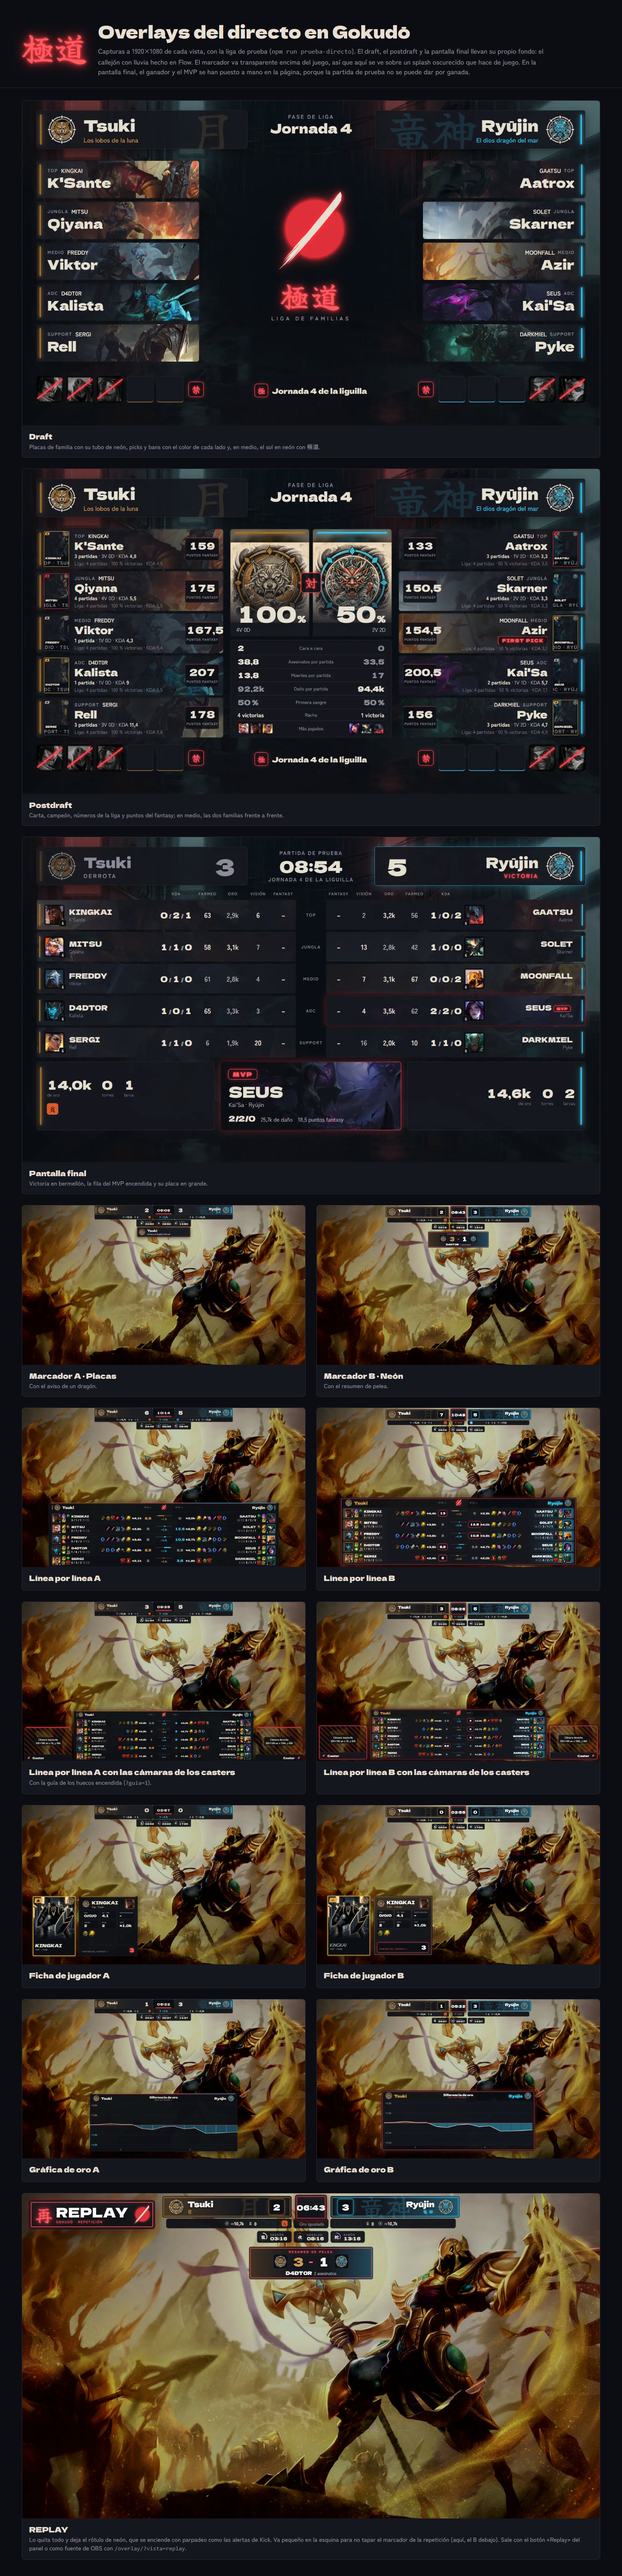
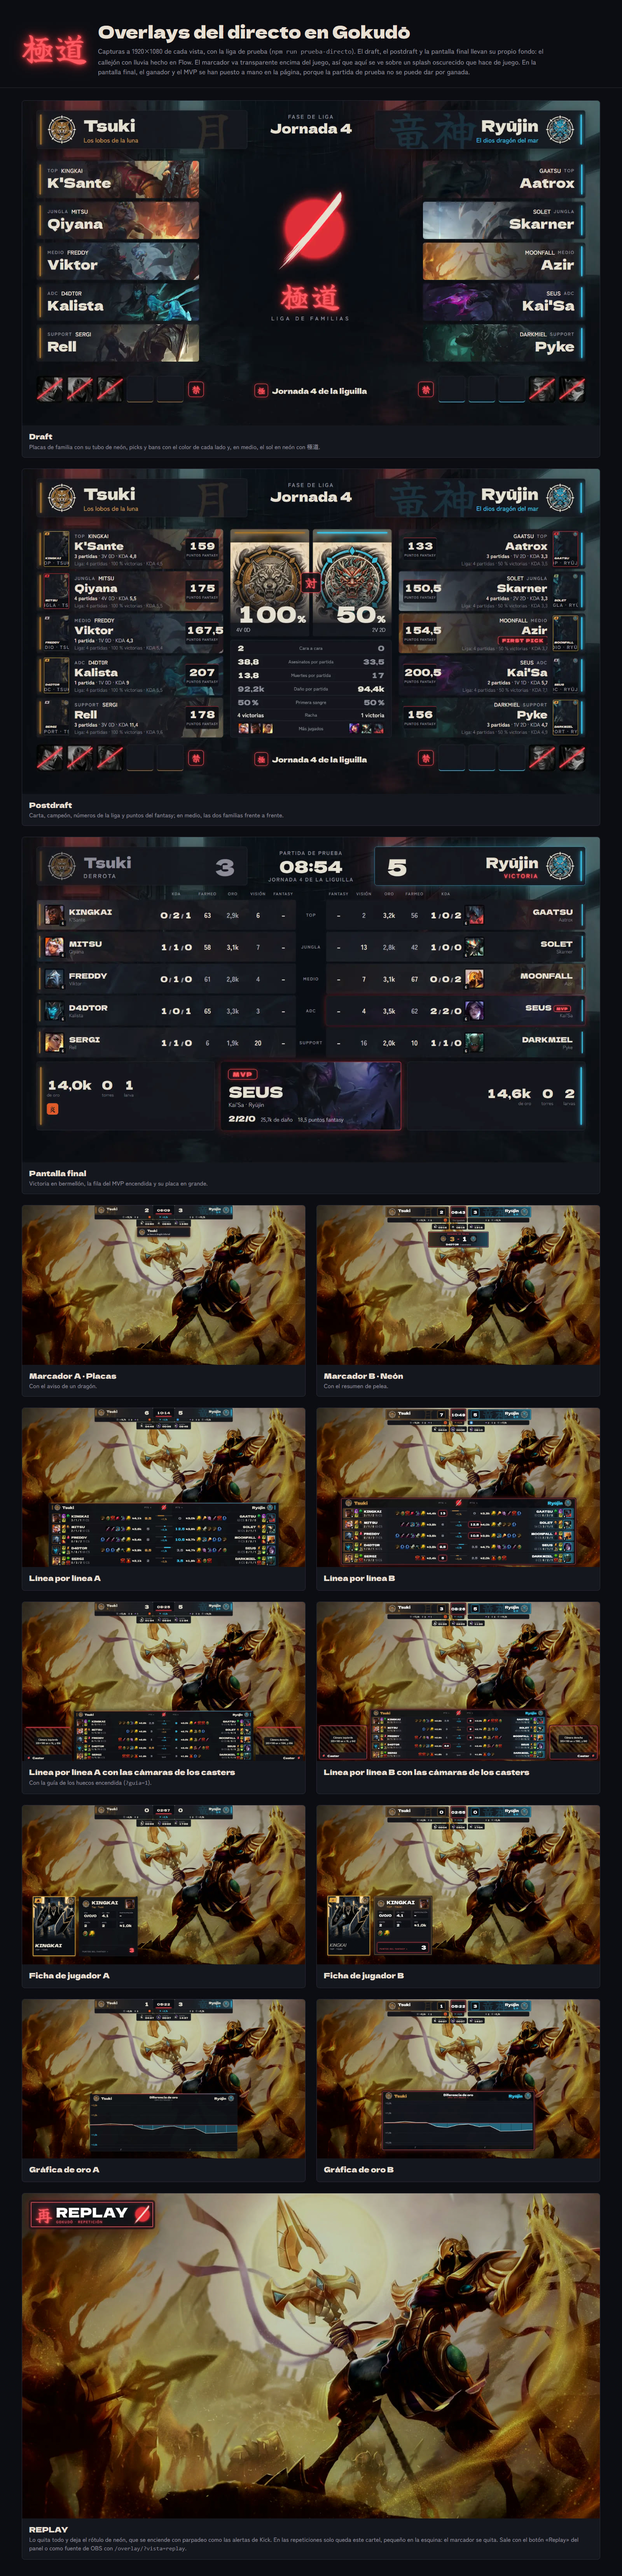
REPLAY: en las repeticiones solo queda el cartel, que se queda compacto
Pacopepe: en las repeticiones el marcador se quita y el cartel compacto «está bien de grande».
Muestra 14-replay sin marcador debajo.

Changed region(s): [[0.25, 0.8436, 0.75, 0.9061]]

diff --git a/public/overlay/replay.css b/public/overlay/replay.css
@@ -11,8 +11,9 @@ body[data-vista="replay"] #replay { opacity: 1; visibility: visible; transition:
 body[data-vista="replay"] #lienzo { opacity: 0; visibility: hidden; transition: opacity .5s ease, visibility 0s .5s; }
 body[data-vista="replay"] .codigo-directo { display: none; }
 
-/* Compacto y pegado a la esquina: la repetición lleva el marcador de la partida arriba en el centro, y el cartel no puede
-   tapar el nombre de la familia azul, que empieza hacia x 465 (estilo B) o 491 (A). Mide unos 410 px de ancho (acaba hacia x 435) */
+/* En las repeticiones solo queda este cartel: el marcador de la partida se quita (Pacopepe, 08/11). Va compacto y pegado
+   a la esquina, porque así «está bien de grande»: mide unos 416×93 px y acaba hacia x 440. Si algún día conviviera con
+   el marcador, tampoco lo taparía (la placa azul empieza hacia x 465 con el estilo B y x 491 con el A) */
 .replay-cartel { position: absolute; left: 24px; top: 24px; display: grid; grid-template-columns: auto auto auto; align-items: center; gap: 12px;
   padding: 12px 14px 12px 18px; border-radius: 8px; border: 1px solid var(--sumi-linea);
   background: linear-gradient(180deg, rgba(21, 22, 31, .96), rgba(12, 13, 19, .96));

diff --git a/docs/capturas/gokudo/muestras.html b/docs/capturas/gokudo/muestras.html
@@ -44,7 +44,7 @@
   <figure><img src="11-ficha-b.webp" alt=""><figcaption><b>Ficha de jugador B</b></figcaption></figure>
   <figure><img src="12-grafica-a.webp" alt=""><figcaption><b>Gráfica de oro A</b></figcaption></figure>
   <figure><img src="13-grafica-b.webp" alt=""><figcaption><b>Gráfica de oro B</b></figcaption></figure>
-  <figure class="ancha"><img src="14-replay.webp" alt=""><figcaption><b>REPLAY</b>Lo quita todo y deja el rótulo de neón, que se enciende con parpadeo como las alertas de Kick. Va pequeño en la esquina para no tapar el marcador de la repetición (aquí, el B debajo). Sale con el botón «Replay» del panel o como fuente de OBS con <code>/overlay/?vista=replay</code>.</figcaption></figure>
+  <figure class="ancha"><img src="14-replay.webp" alt=""><figcaption><b>REPLAY</b>Lo quita todo y deja el rótulo de neón, que se enciende con parpadeo como las alertas de Kick. En las repeticiones solo queda este cartel, pequeño en la esquina: el marcador se quita. Sale con el botón «Replay» del panel o como fuente de OBS con <code>/overlay/?vista=replay</code>.</figcaption></figure>
 </main>
 </body>
 </html>
